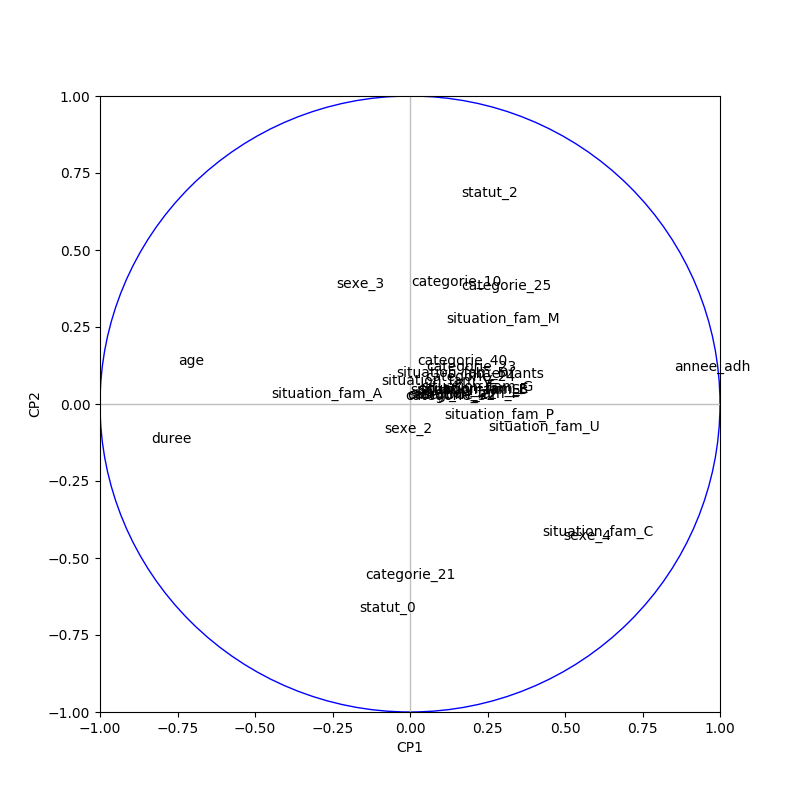
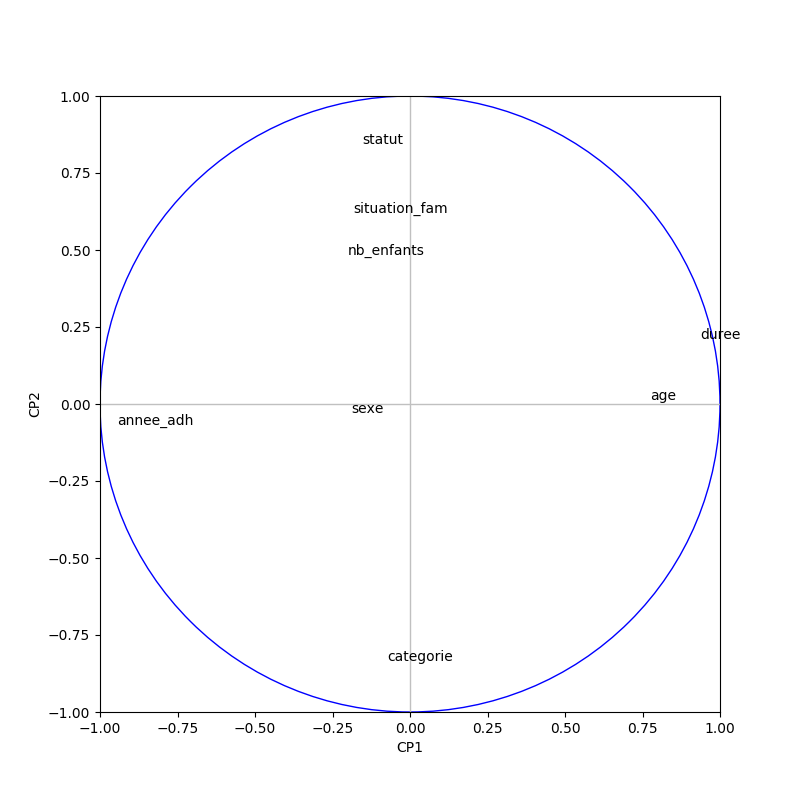
Graphe des eigval, filtrage et groupes de même taille

diff --git a/Kowalski.py b/Kowalski.py
@@ -62,30 +62,41 @@ def main():
     # On ne garde que l'année de l'adhésion
     df["annee_adh"] = df["annee_adh"].str.slice(stop = 4).astype(int)
 
+    # Filtrage des colonnes
+    # df = df["sexe", "nb_enfants", "situation_fam", "statut", "categorie", "annee_adh", "age", "duree", "demissionnaire"]
+    # df = df[["sexe", "nb_enfants", "situation_fam", "age", "duree", "demissionnaire"]]
+
     # Ligne 1: on ne discretise pas; Ligne 2: on discretise
-    # df["situation_fam"] = df["situation_fam"].apply(lambda x: ord(x.lower()) - 96).astype(int)
-    df = discretization(df, ["categorie", "statut", "situation_fam", "sexe"])
+    df["situation_fam"] = df["situation_fam"].apply(lambda x: ord(x.lower()) - 96).astype(int)
+    # df = discretization(df, ["categorie", "statut", "situation_fam", "sexe"])
+    
+    # On prend autant de démissionnaires que de non démissionnaires
+    mini = min([df[df["demissionnaire"] == True].count().iloc[0], df[df["demissionnaire"] == False].count().iloc[0]])
+    df = df.groupby(["demissionnaire"]).apply(lambda grp: grp.sample(n = mini)).reset_index(level = [0, 1], drop = True)
 
-    X, Y = get_XY(df, "d")
+    # Création des données X et Y
+    X, Y = get_XY(df, "f")
 
+    # Scale des données
     scaler = StandardScaler()
     X_cols = X.columns
     x_scaled = scaler.fit_transform(X.values)
     X = pd.DataFrame(data = x_scaled, columns = X_cols)
-
-    print X
+    Y = Y.reset_index()["demissionnaire"]
 
     # ACP sur les données X
     acp = PCA(svd_solver = "full")
     coord = acp.fit_transform(X)
+    corvar, eigval, n, p = get_corvar(X, acp)
+
+    save_eigval_graph(eigval, p)
+
     print(acp.explained_variance_ratio_)
-    save_acp_graph(acp, coord, X, 0, 1)
-    save_acp_graph(acp, coord, X, 2, 3)
-
-    corvar, n, p = get_corvar(X, acp)
-
+    
     correlation_circle(X, p, 0, 1, corvar)
     correlation_circle(X, p, 2, 3, corvar)
+    save_acp_graph(acp, coord, X, Y, 0, 1)
+    save_acp_graph(acp, coord, X, Y, 2, 3)
 
 # Discrétisation des données catégorielles passées en paramètre
 def discretization(df, col_list):
@@ -99,11 +110,11 @@ def discretization(df, col_list):
 # f : X = corpus complet
 def get_XY(df, choix):
     if choix == "d":
-        return df[df["demissionnaire"] == True].drop(columns = "demissionnaire"), df[df["demissionnaire"] == True]["demissionnaire"]
+        return df[df["demissionnaire"] == True].drop(columns = "demissionnaire"), df[df["demissionnaire"] == True]["demissionnaire"].astype(int)
     elif choix == "n":
-        return df[df["demissionnaire"] == False].drop(columns = "demissionnaire"), df[df["demissionnaire"] == False]["demissionnaire"]
+        return df[df["demissionnaire"] == False].drop(columns = "demissionnaire"), df[df["demissionnaire"] == False]["demissionnaire"].astype(int)
     elif choix == "f":
-        return df.drop(columns = "demissionnaire"), df["demissionnaire"]
+        return df.drop(columns = "demissionnaire"), df["demissionnaire"].astype(int)
     else:
         exit("erreur")
 
@@ -127,7 +138,7 @@ def test_predict(X, Y):
         print(confusion_matrix(Y, cross_val_predict(clf, X, Y, cv = 5)))
 
 # Sauvegarde du graphe de l'acp par rapport à deux composantes cp1 et cp2
-def save_acp_graph(acp, coord, data, cp1, cp2, fixed = False):
+def save_acp_graph(acp, coord, data, Y, cp1, cp2, fixed = False):
     # Calcul des valeurs propres et de la matrice de corrélation des variables
     n = np.size(data, 0)
     p = np.size(data, 1)
@@ -148,7 +159,7 @@ def save_acp_graph(acp, coord, data, cp1, cp2, fixed = False):
     axes.set_ylim(ymin, ymax)
 
     for i in range(n):
-        plt.annotate("+", (coord[i, cp1], coord[i, cp2]))
+        plt.annotate(".", (coord[i, cp1], coord[i, cp2]), color = ("blue" if Y.loc[i] == 0 else "red"))
 
     plt.plot([xmin, xmax], [0, 0], color = "silver", linestyle = "-", linewidth = 1)
     plt.plot([0, 0], [ymin, ymax], color = "silver", linestyle = "-", linewidth = 1)
@@ -188,7 +199,17 @@ def get_corvar(X, acp):
     for k in range(p):
         corvar[:, k] = acp.components_[k, :] * sqrt_eigval[k]
     
-    return corvar, n, p
+    return corvar, eigval, n, p
+
+# Sauvegarde du graphe des eigval
+def save_eigval_graph(eigval, p):
+    fig = plt.figure()
+    plt.plot(np.arange(1, p + 1), eigval)
+    plt.title("Scree plot")
+    plt.ylabel("Eigen values")
+    plt.xlabel("Factor number")
+    plt.savefig("fig/acp_eigen_values")
+    plt.close(fig)
 
 if __name__ == "__main__":
     main()
